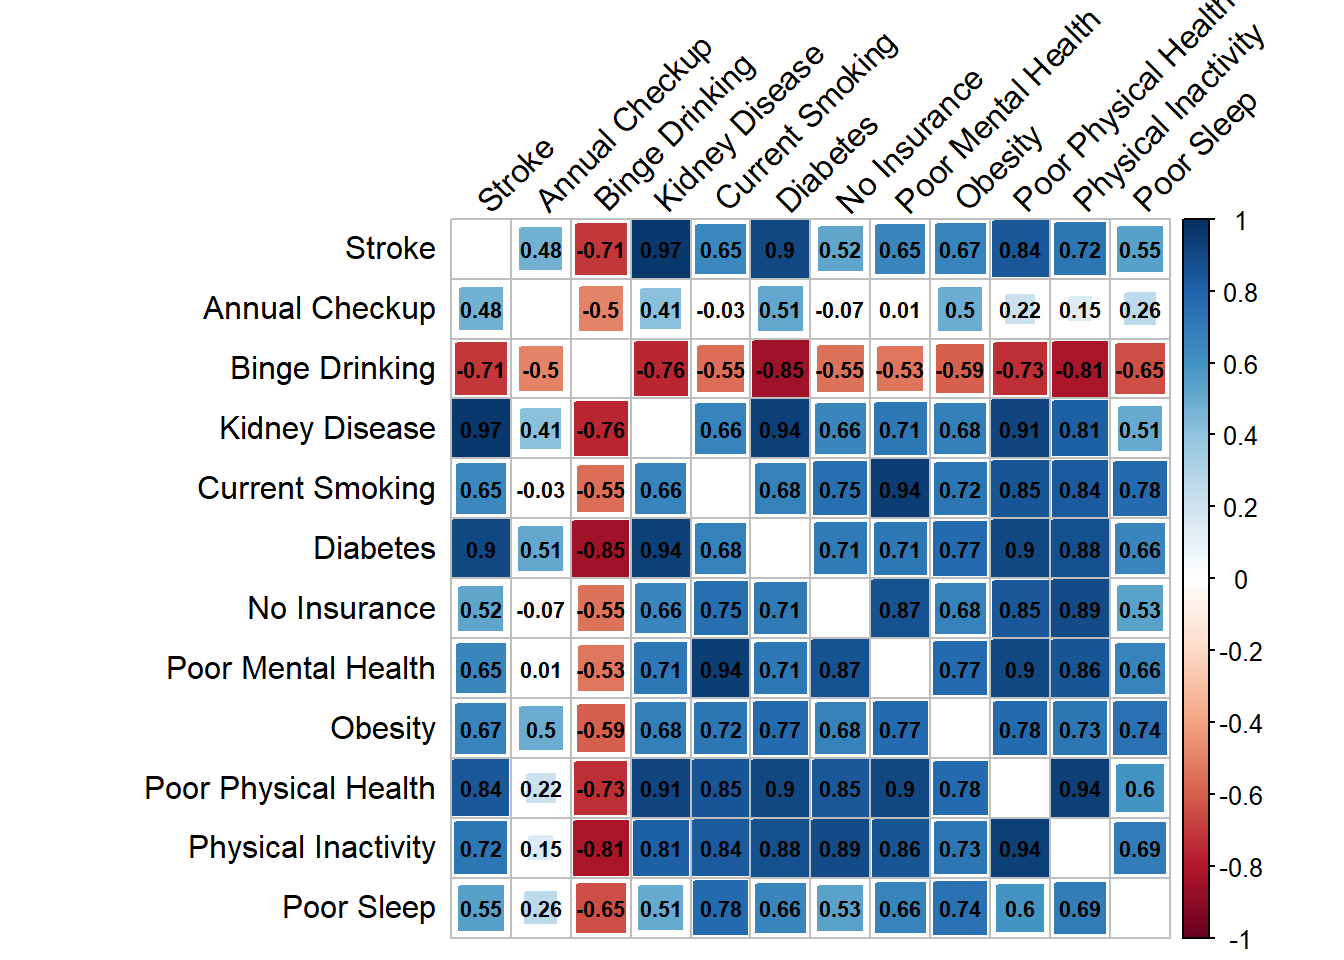
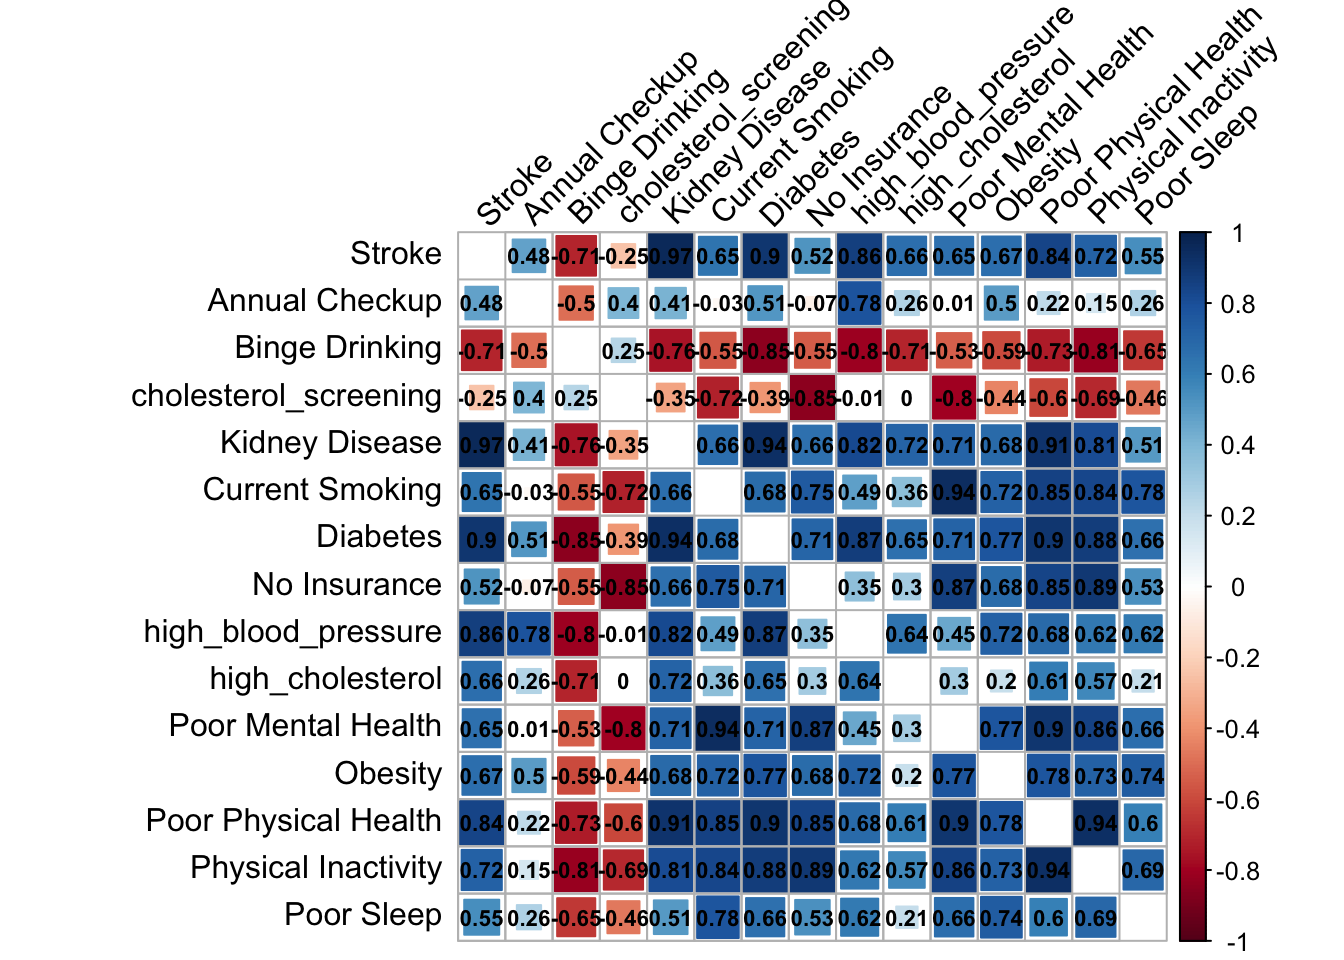
minor edits

diff --git a/final_project_report.html b/final_project_report.html
@@ -435,24 +435,45 @@ div.tocify {
 <p>We scraped the data directly from the web as seen in the code below and called it <code>cvrisk</code>.</p>
 <pre class="r"><code>cvrisk = read_csv(&quot;https://data.cdc.gov/api/views/6vp6-wxuq/rows.csv?accessType=DOWNLOAD&quot;) %&gt;% 
     janitor::clean_names() </code></pre>
-<p>We then restricted our database to census tract -level data in New York City and included only the variables that were useful for further data visualization. We called this database <code>nyc_cvrisk</code>.</p>
+<p>We then restricted our database to census tract -level data in New York City and included only the variables that were useful for further data visualization. We called this database <code>nyc_cvrisk</code>. We then exported this to a csv in our repository so that we can read in the limited dataset for future use to improve efficiency.</p>
+<p>There were 591 missing values in the dataset, which corresponded to observations that had population counts less than 50. For this reason, we did include these datapoints in our analysis and removed them while tidying.</p>
 <pre class="r"><code>nyc_cvrisk = 
   cvrisk %&gt;% 
   filter(state_desc == &quot;New York&quot;, city_name == &quot;New York&quot;,
          geographic_level == &quot;Census Tract&quot;,
          !is.na(data_value),
-         year == 2016,
          measure_id %in% c(&quot;ACCESS2&quot;, &quot;BINGE&quot;, &quot;BPHIGH&quot;, &quot;BPMED&quot;, &quot;OBESITY&quot;, &quot;CHECKUP&quot;, 
                          &quot;CHOLSCREEN&quot;, &quot;CSMOKING&quot;, &quot;DIABETES&quot;, &quot;HIGHCHOL&quot;, &quot;KIDNEY&quot;, 
                          &quot;LPA&quot;, &quot;MHLTH&quot;, &quot;PHLTH&quot;, &quot;SLEEP&quot;, &quot;CHD&quot;, &quot;STROKE&quot;)) %&gt;%
   droplevels() %&gt;% 
   select(unique_id, population_count, measure_id, data_value, short_question_text)</code></pre>
+<p>The following is a distribution of the prevalences of all of the relevant variables. As you can see the risk factors with highest prevalence involve screening and medication (BPMED, CHECKUP and CHOLSCREEN). The risk factors with the lowest prevlances are diseases (CHD, KIDNEY and STROKE). There is a general trend of higher variance among risk factors with higher prevalences.</p>
+<pre class="r"><code>nyc_cvrisk %&gt;%
+  ggplot(aes(x = measure_id, y = data_value, color = measure_id)) + 
+  geom_boxplot() +
+  theme(axis.text.x = element_text(angle = 60, hjust = 1),
+        legend.position = &quot;none&quot;) + 
+   labs(
+      title = &quot;Risk Factor Prevalence in NYC 2015-2016&quot;,
+      x = &quot;Risk Factor&quot;,
+      y = &quot;Prevalence (%)&quot;,
+      caption = &quot;Data from the BRFSS SMART 2010&quot;
+    ) + 
+    viridis::scale_color_viridis(
+      discrete = TRUE
+    )</code></pre>
+<p><img src="final_project_report_files/figure-html/unnamed-chunk-3-1.png" width="672" /></p>
 </div>
 <div id="making-the-animated-scatterplot-for-coronary-artery-disease" class="section level3">
 <h3>Making the animated scatterplot for coronary artery disease</h3>
-<p>We first created another dataset that can be used for the animated scatterplot such that the outcome measure for coronary artery disease appears as a separate variable in the dataset. We also repeated the same thing to create another dataset for stroke.</p>
+<p>We first created another dataset that can be used for the animated scatterplot such that the outcome measure for coronary artery disease appears as a separate variable in the dataset. We created another similar dataset for stroke.</p>
 <pre class="r"><code>nyc_cvrisk_limited = nyc_cvrisk %&gt;% 
-  filter(short_question_text %in% c(&quot;Annual Checkup&quot;, &quot;Binge Drinking&quot;, &quot;Cholesterol Screening&quot;, &quot;Chronic Kidney Disease&quot;, &quot;Current Smoking&quot;, &quot;Diabetes&quot;, &quot;Health Insurance&quot;, &quot;High Blood Pressure&quot;, &quot;High Cholesterol&quot;, &quot;Mental Health&quot;, &quot;Obesity&quot;, &quot;Physical Health&quot;, &quot;Physical Inactivity&quot;, &quot;Sleep &lt;7 hours&quot;, &quot;Taking BP Medication&quot;)) %&gt;% 
+  filter(short_question_text %in% c(&quot;Annual Checkup&quot;, &quot;Binge Drinking&quot;, &quot;Cholesterol Screening&quot;,
+                                    &quot;Chronic Kidney Disease&quot;, &quot;Current Smoking&quot;, &quot;Diabetes&quot;, 
+                                    &quot;Health Insurance&quot;, &quot;High Blood Pressure&quot;, &quot;High Cholesterol&quot;,
+                                    &quot;Mental Health&quot;, &quot;Obesity&quot;, &quot;Physical Health&quot;, 
+                                    &quot;Physical Inactivity&quot;, &quot;Sleep &lt;7 hours&quot;, 
+                                    &quot;Taking BP Medication&quot;)) %&gt;% 
   droplevels() %&gt;% 
   mutate(risk_factor = short_question_text) %&gt;% 
   select(-short_question_text, -measure_id)
@@ -471,7 +492,7 @@ nyc_cvrisk_joined = left_join(nyc_cvrisk_limited, nyc_cad, by = &quot;unique_id&
 nyc_cvrisk_joined_stroke = left_join(nyc_cvrisk_limited, nyc_stroke, by = &quot;unique_id&quot;)</code></pre>
 <p>We then installed the package required for animation</p>
 <pre class="r"><code>devtools::install_github(&#39;thomasp85/gganimate&#39;)</code></pre>
-<p>We then created an animated scatterplot with Coronary Heart Disease prevalence on the X-axis and different risk factors on the Y-axis using the package <code>gganimate</code>.</p>
+<p>We then created an animated scatterplot with Coronary Heart Disease prevalence on the X-axis and different risk factors on the Y-axis</p>
 <pre class="r"><code>theme_set(theme_bw())  # pre-set the bw theme.
 
 
@@ -501,7 +522,7 @@ p = nyc_cvrisk_joined %&gt;%
   exit_fade()
 
 animate(p, fps = 2, height = 600, width = 1000, renderer = gifski_renderer())</code></pre>
-<p><img src="final_project_report_files/figure-html/unnamed-chunk-5-1.gif" /><!-- --></p>
+<p><img src="final_project_report_files/figure-html/unnamed-chunk-6-1.gif" /><!-- --></p>
 </div>
 <div id="making-the-animated-scatterplot-for-stroke" class="section level3">
 <h3>Making the animated scatterplot for stroke</h3>
@@ -530,7 +551,7 @@ pp = nyc_cvrisk_joined_stroke %&gt;%
   exit_fade()
 
 animate(pp, fps = 2, height = 600, width = 1000, renderer = gifski_renderer())</code></pre>
-<p><img src="final_project_report_files/figure-html/unnamed-chunk-6-1.gif" /><!-- --></p>
+<p><img src="final_project_report_files/figure-html/unnamed-chunk-7-1.gif" /><!-- --></p>
 </div>
 <div id="making-the-correlation-plot-for-coronary-artery-disease" class="section level3">
 <h3>Making the correlation plot for coronary artery disease</h3>
@@ -540,7 +561,7 @@ animate(pp, fps = 2, height = 600, width = 1000, renderer = gifski_renderer())</
   select(-measure_id)%&gt;%
   spread(key = short_question_text, value = data_value) %&gt;% 
   janitor::clean_names()</code></pre>
-<p>We then used the <code>corrplot</code> package to generate the correlation plot for coronary heart disease and risk factors of interest as follows:</p>
+<p>The correlation plot for coronary heart disease and risk factors of interest is as follows:</p>
 <pre class="r"><code>nyc_cvrisk_wide %&gt;% 
   select(annual_checkup:sleep_7_hours) %&gt;% 
   select(&quot;coronary_heart_disease&quot;, everything())%&gt;%
@@ -560,7 +581,7 @@ animate(pp, fps = 2, height = 600, width = 1000, renderer = gifski_renderer())</
   corrplot(method = &quot;square&quot;, addCoef.col = &quot;black&quot;, tl.col=&quot;black&quot;, tl.srt=45, insig = &quot;blank&quot;, 
          # hide correlation coefficient on the principal diagonal
          diag=FALSE, number.cex = .7)</code></pre>
-<p><img src="final_project_report_files/figure-html/unnamed-chunk-8-1.png" width="672" /></p>
+<p><img src="final_project_report_files/figure-html/unnamed-chunk-9-1.png" width="672" /></p>
 </div>
 <div id="making-the-correlation-plot-for-stroke" class="section level3">
 <h3>Making the correlation plot for stroke</h3>
@@ -585,12 +606,13 @@ animate(pp, fps = 2, height = 600, width = 1000, renderer = gifski_renderer())</
   corrplot(method = &quot;square&quot;, addCoef.col = &quot;black&quot;, tl.col=&quot;black&quot;, tl.srt=45, insig = &quot;blank&quot;, 
          # hide correlation coefficient on the principal diagonal
          diag=FALSE, number.cex = .7)</code></pre>
-<p><img src="final_project_report_files/figure-html/unnamed-chunk-9-1.png" width="672" /></p>
+<p><img src="final_project_report_files/figure-html/unnamed-chunk-10-1.png" width="672" /></p>
 </div>
 </div>
 <div id="findings" class="section level1">
 <h1>Findings</h1>
 <p>We made several salient observations about correlation of risk factors with <em>Coronary Artery Disease</em> and <em>Stroke</em>.</p>
+<p>All of the risk factors (with the execption of binge drinking) have a positive association with both coronary heart disease and stroke. The top three risk factors for both outcomes are chronic kidney disease, diabetes and poor physical Health. In addition, many of the risk factors are associated with each other; namely, physical inactivity is heavily correlated with many of the other variables. The risk factors tend to be similarly associated with both coronary heart disease and stroke, with stronger associations with stroke.</p>
 <div id="factors-correlated-with-coronary-artery-disease" class="section level3">
 <h3>Factors correlated with coronary artery disease</h3>
 <p>We observed that the following factors were strongly positively correlated with coronary artery disease:</p>
@@ -642,7 +664,7 @@ animate(pp, fps = 2, height = 600, width = 1000, renderer = gifski_renderer())</
 <h1>Discussion</h1>
 <p>In the process of building this project, we gained several insights about risk factors for heart disease.</p>
 <ul>
-<li><p>In particular, the strength of correlation of lifestyle risk factors like physical inactivity and smoking with coronary artery disease and stroke indicate the potential for making an impact by targeting these interventions. Our findings also highlight the need for raising the awareness for modifiable factors like hypertension and diabetes that are also strongly correlated with heart disease. Variable slef-reporting of these conditions across NYC as visualized in our NYC Map app could also likely be due to variation in awareness and underdiagnosis. Interestingly, alcohol intake was negatively correlated with both coronary disease and stroke. This has been observed in several meta-analyses as well. This is however, likely only an association, and not evidence of causation, as discussed in <a href="http://www.onlinejacc.org/content/accj/69/1/25.full.pdf">this article</a>.</p></li>
+<li><p>In particular, the strength of correlation of lifestyle risk factors with coronary artery disease and stroke indicate the potential for making an impact by targeting these interventions. Interestingly, alcohol intake was negatively correlated with both coronary disease and stroke. This has been observed in several meta-analyses as well. This is however, likely only an association, and not evidence of causation, as discussed in <a href="http://www.onlinejacc.org/content/accj/69/1/25.full.pdf">this article</a>.</p></li>
 <li><p>Visualization of geographic variation of these risk factors in outcomes in New York City provide insights into target neighborhoods for implementation of cardiovascular risk reduction policies.</p></li>
 <li><p>Visualization of individual risk for heart disease using patient-level inputs, and the ability to understand how modification of one input can impact the risk can be very powerful for people working toward decreasing their risk.</p></li>
 </ul>
